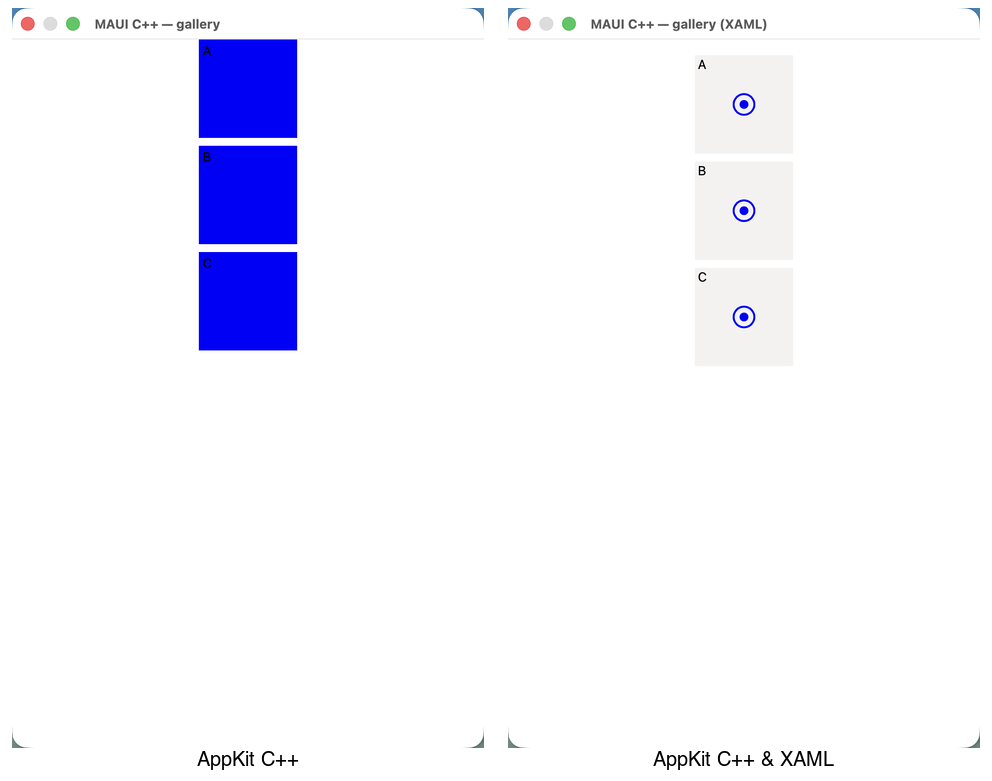
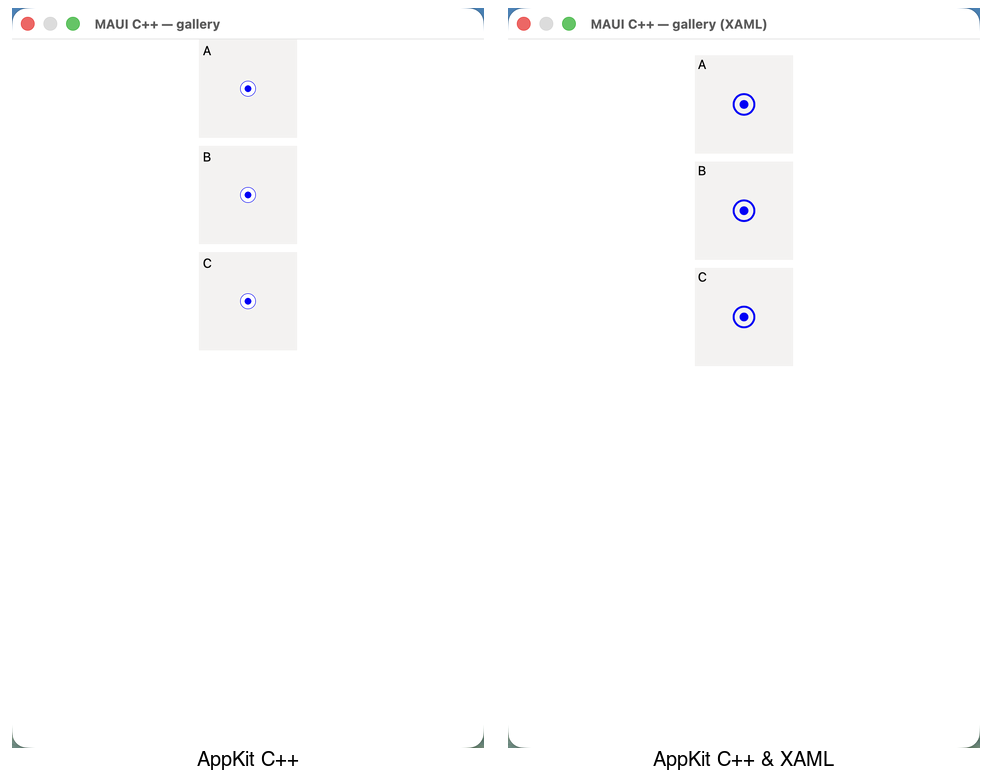
docs: radio_template_from_style also fixed by the shape-fill fix (cpp==xaml)
The builder ControlTemplate "solid blue box" was the same shape-fill bug (the radio ring/dot are shapes).
With db2433923a it renders correctly and appkit_cpp == appkit_xaml. Updates the board + docs; the only
remaining AppKit element gap is the image_button Animated-GIF-black decode.

Changed region(s): [[0.1875, 0.0307, 0.3125, 0.4609]]

diff --git a/port/cpp/docs/MACOS_ANDROID_RESUME.md b/port/cpp/docs/MACOS_ANDROID_RESUME.md
@@ -43,7 +43,9 @@ Criterion (per user): every coded/XAML element PRESENT in all renders; `appkit_c
   - **image** — FIXED: apple image_handler::get_desired_size was a {0,0} stub; now returns the loaded
     NSImage's aspect-fit size, so Images render (UriSource/FileSource/Font). (image_button GIF still draws
     black — a separate image_button decode issue.)
-  - **radio_template_from_style** — builder ControlTemplate renders a solid-blue box (only cpp-vs-xaml diff).
+  - **radio_template_from_style** — FIXED by the shape-fill fix (radio ring/dot are shapes); cpp==xaml.
+  - **image_button Animated GIF** — draws black (route the apple image_button load through the GIF-aware
+    CGImageSource decode the image handler uses). The only remaining AppKit element gap.
 
 ## 3. Android — builds + core verified on-device ✅ (UI handlers deferred)
 `cmake --preset android && cmake --build --preset android -j` (skip the experimental `maui_ui` codegen

diff --git a/port/cpp/docs/comparison/maccatalyst/APPKIT_FINDINGS.md b/port/cpp/docs/comparison/maccatalyst/APPKIT_FINDINGS.md
@@ -89,5 +89,5 @@ wrapper the layout positioned — now `platform_arrange` frames the container + 
 
 **Image FIXED** (get_desired_size returned a {0,0} stub → images measured to nothing; now returns the
 loaded NSImage's aspect-fit size). `image_button` GIF still renders black (separate decode issue). `image` doesn't show the actual
-images; `radio_template_from_style` builder ControlTemplate renders a solid-blue box (cpp-vs-xaml). These
-are NOT the shape-fill bug and are deferred.
+images; `radio_template_from_style` was ALSO fixed by the shape-fill fix (its radio ring/dot are shapes) — cpp==xaml now.
+Only remaining AppKit gap: `image_button` Animated GIF draws black (a separate decode issue).
